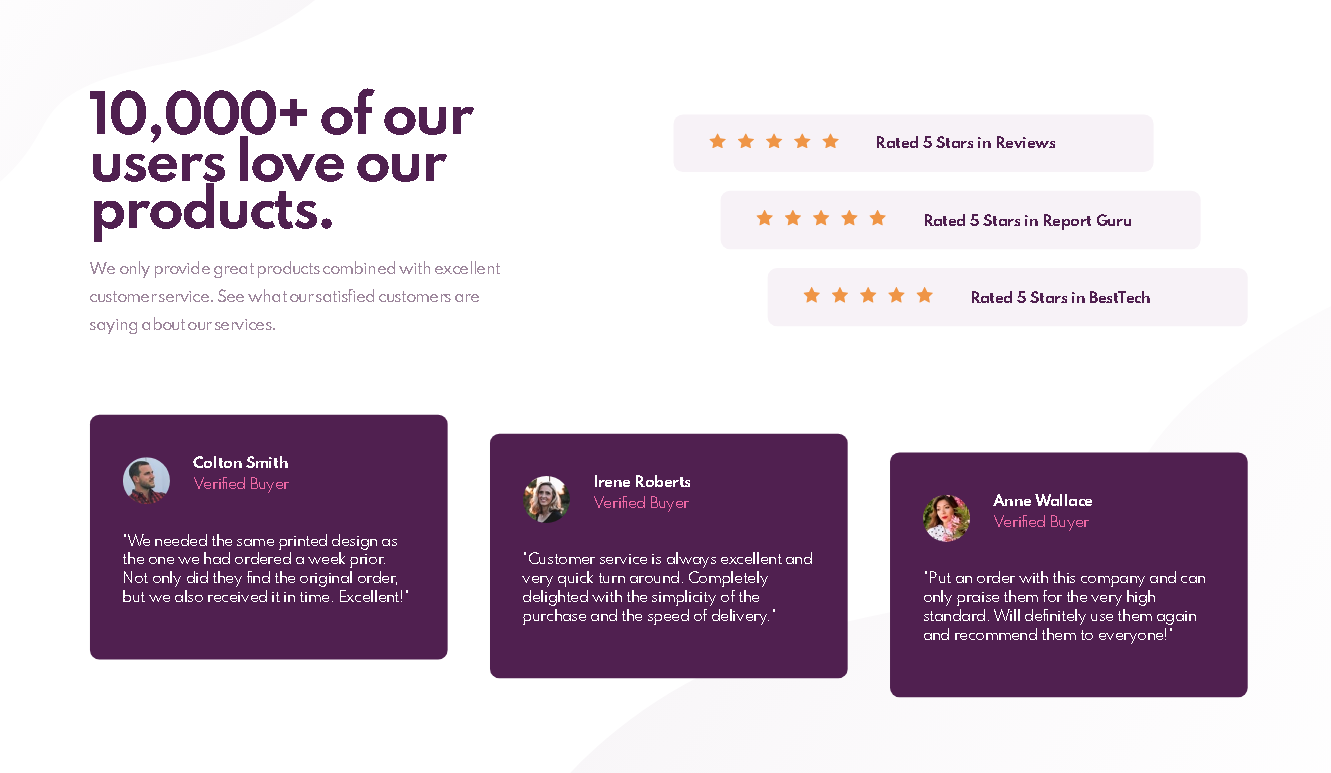
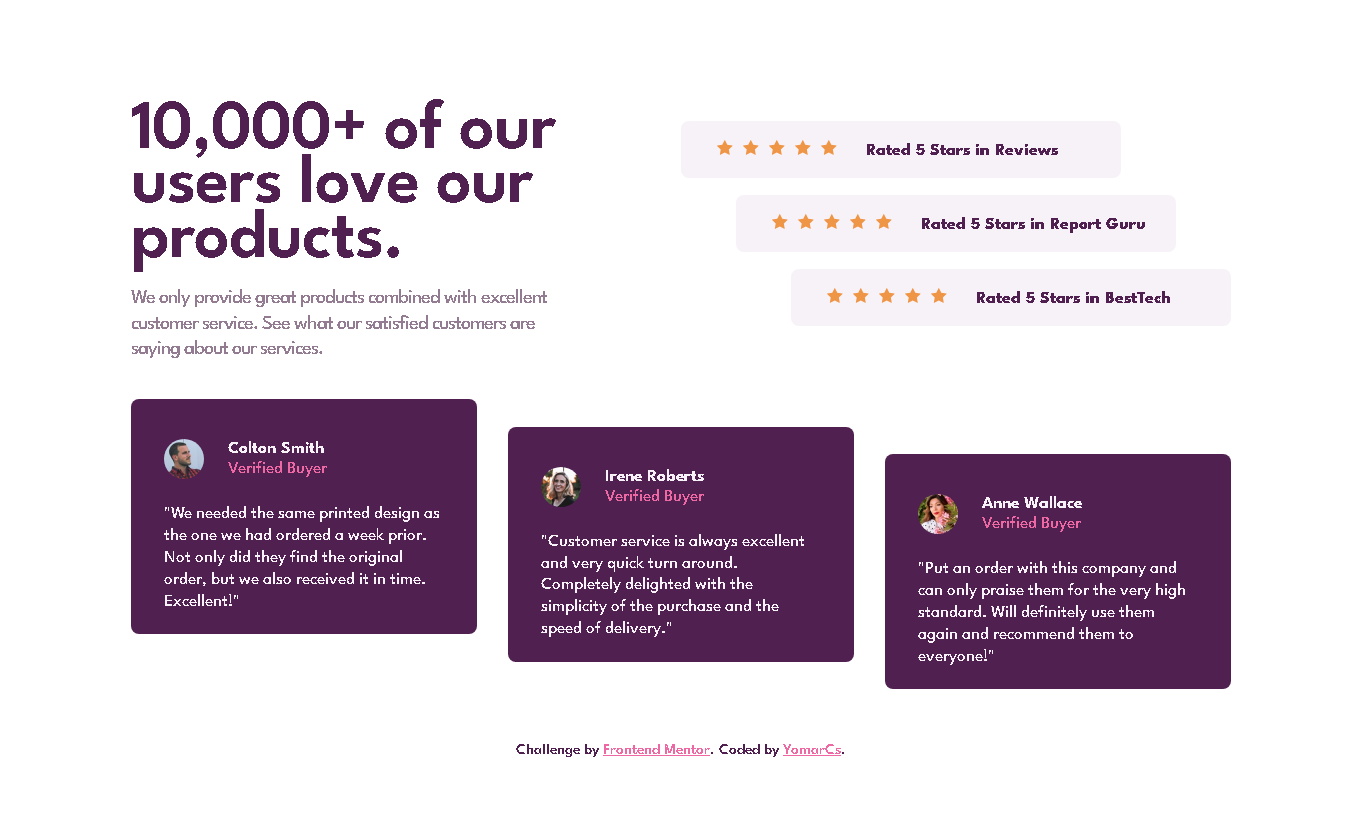
updating social-proof

diff --git a/Newbie/5. social-proof/V2/styles.css b/Newbie/5. social-proof/V2/styles.css
@@ -30,7 +30,7 @@ body {
   max-height: 100vh;
   overflow-x: hidden;
 }
-@media screen and (min-width: 1024px) {
+@media screen and (min-width: 1024px) and (min-height: 840px) {
   body {
     max-height: initial;
     height: 100vh;

diff --git a/Newbie/5. social-proof/V2/styles.scss b/Newbie/5. social-proof/V2/styles.scss
@@ -11,7 +11,7 @@ body{
   width: 100vw;
   max-height: 100vh;
   overflow-x: hidden;
-  @include desktop{
+  @include desktopMinHeight{
     max-height: initial;
     height: 100vh;
     display: flex;

diff --git a/Newbie/5. social-proof/V2/media-queries.scss b/Newbie/5. social-proof/V2/media-queries.scss
@@ -15,3 +15,9 @@
     @content;
   }
 }
+
+@mixin desktopMinHeight{
+  @media screen and (min-width: 1024px) and (min-height: 840px){
+    @content;
+  }
+}

diff --git a/Newbie/5. social-proof/README.md b/Newbie/5. social-proof/README.md
@@ -2,7 +2,7 @@
 
 Live Site URL: [https://yomarcs.github.io/social-proof-section-master/](https://yomarcs.github.io/social-proof-section-master/)
 
-![Design preview for the 3-column preview card coding challenge](./design/desktop-preview.jpg)
+![Design preview for the Social proof section coding challenge](./design/desktop-preview.jpg)
 
 This is a solution to the [Social proof section challenge on Frontend Mentor](https://www.frontendmentor.io/challenges/social-proof-section-6e0qTv_bA). Frontend Mentor challenges help you improve your coding skills by building realistic projects. 
 
@@ -21,7 +21,7 @@ This is a solution to the [Social proof section challenge on Frontend Mentor](ht
 
 ### Links
 
-- Solution URL: [https://github.com/yomarcs/column-preview-card/blob/main/index.html](https://github.com/yomarcs/social-proof-section-master/blob/main/V2)
+- Solution URL: [https://github.com/yomarcs/social-proof-section-master/blob/V2/main/index.html](https://github.com/yomarcs/social-proof-section-master/blob/main/V2)
 - Live Site URL: [https://yomarcs.github.io/column-preview-card/](https://yomarcs.github.io/social-proof-section-master/)
 
 ### Built with

diff --git a/Newbie/4. profile-card/README.md b/Newbie/4. profile-card/README.md
@@ -22,7 +22,7 @@ This is a solution to the [Profile card component challenge on Frontend Mentor](
 
 ### Links
 
-- Solution URL: [https://github.com/yomarcs/profile-card/blob/main/index.html](https://github.com/yomarcs/profile-card/blob/main/index.html)
+- Solution URL: [https://github.com/yomarcs/profile-card/blob/main/index.html](https://github.com/yomarcs/profile-card/blob/main/V2)
 - Live Site URL: [https://yomarcs.github.io/profile-card/](https://yomarcs.github.io/profile-card/)
 
 ### Built with
